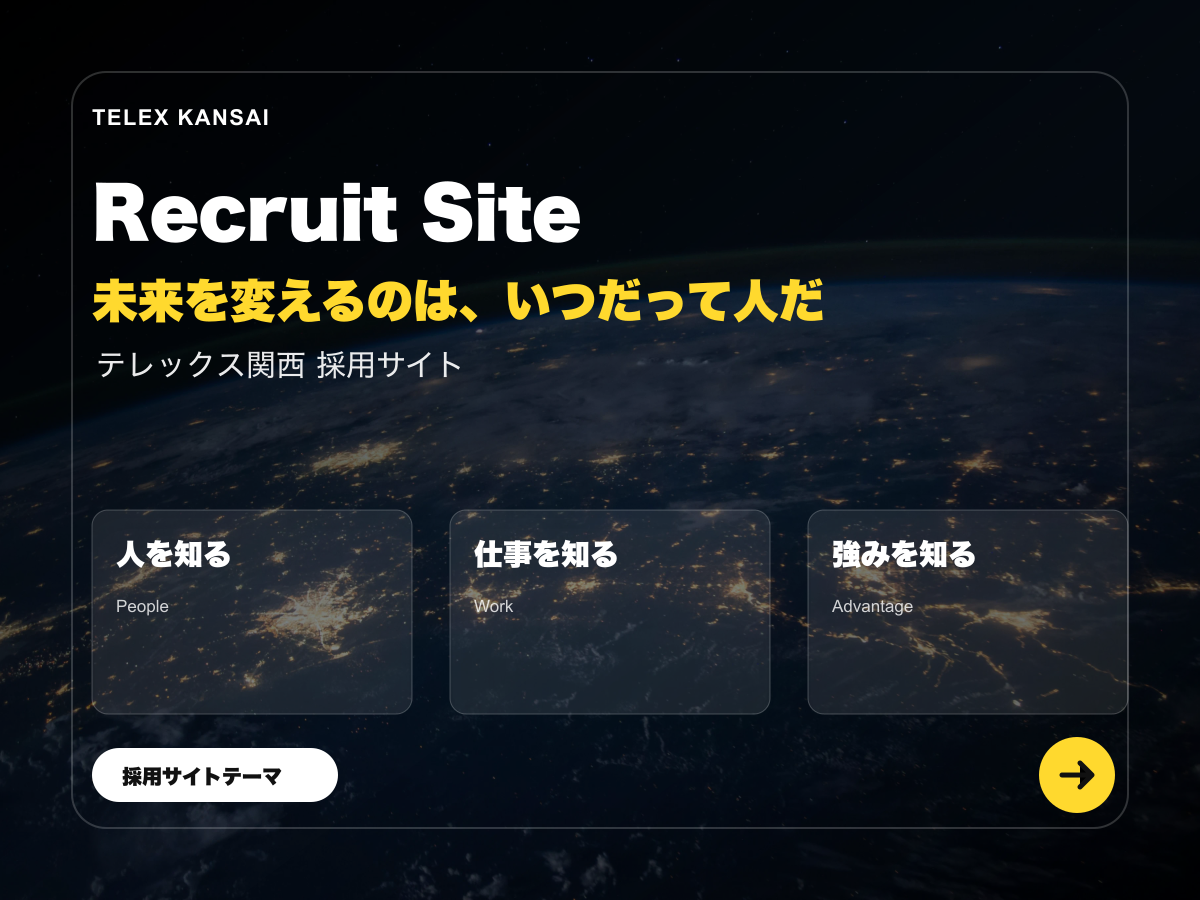
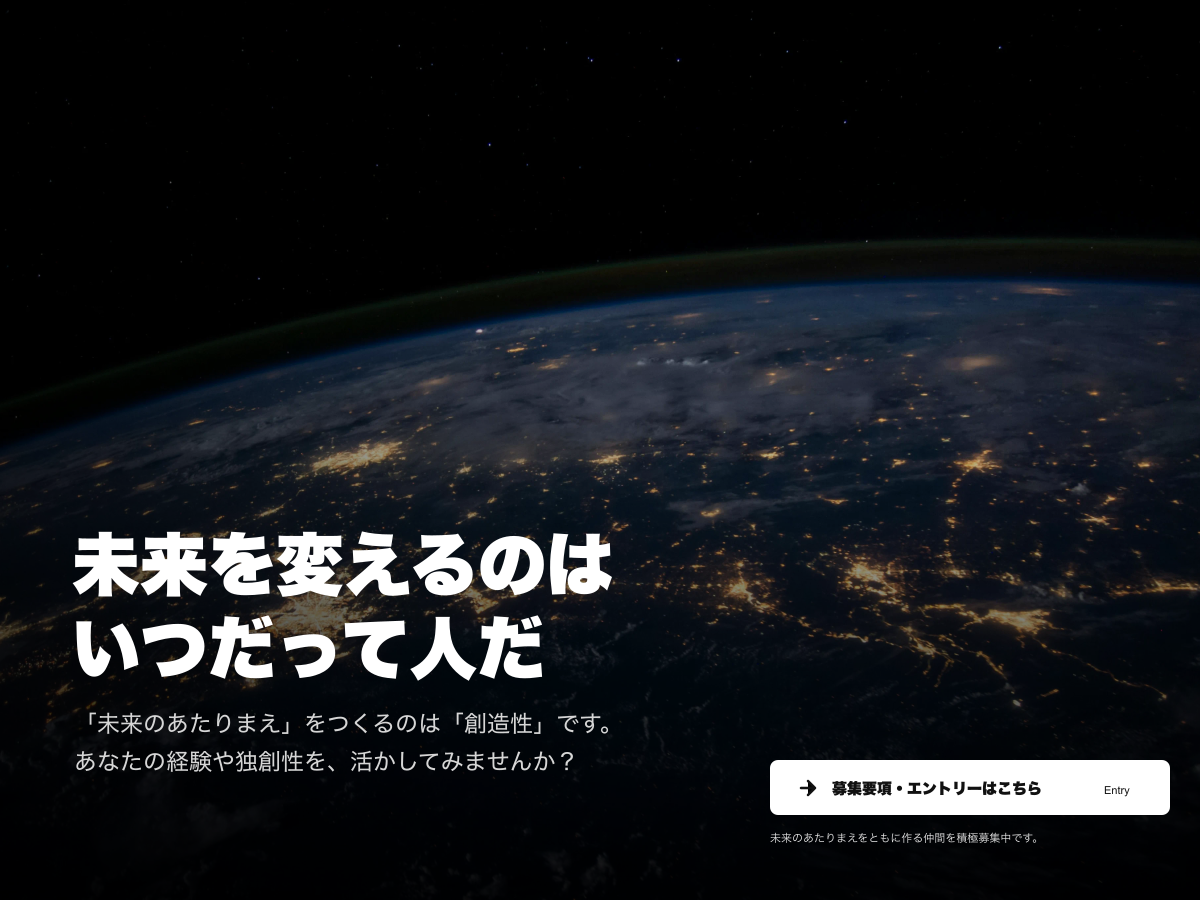
Update footer utility item margins and replace screenshot: Adjust margin-top for footer utility items in CSS and SASS files for improved spacing. Replace the existing screenshot with a new version for enhanced visual quality.

diff --git a/css/styles.css b/css/styles.css
@@ -3400,7 +3400,7 @@ select::-ms-expand {
 }
 
 .p-footer__utility-item + .p-footer__utility-item {
-  margin-top: 0.75rem;
+  margin-top: 1.25rem;
 }
 @media screen and (min-width: 768px) {
   .p-footer__utility-item + .p-footer__utility-item {

diff --git a/src/sass/project/_p-footer.scss b/src/sass/project/_p-footer.scss
@@ -61,8 +61,7 @@
 }
 
 .p-footer__utility-item + .p-footer__utility-item {
-  margin-top: rem(12);
-
+  margin-top: rem(20);
   @include mq(md){
     margin-top: rem(16);
     
